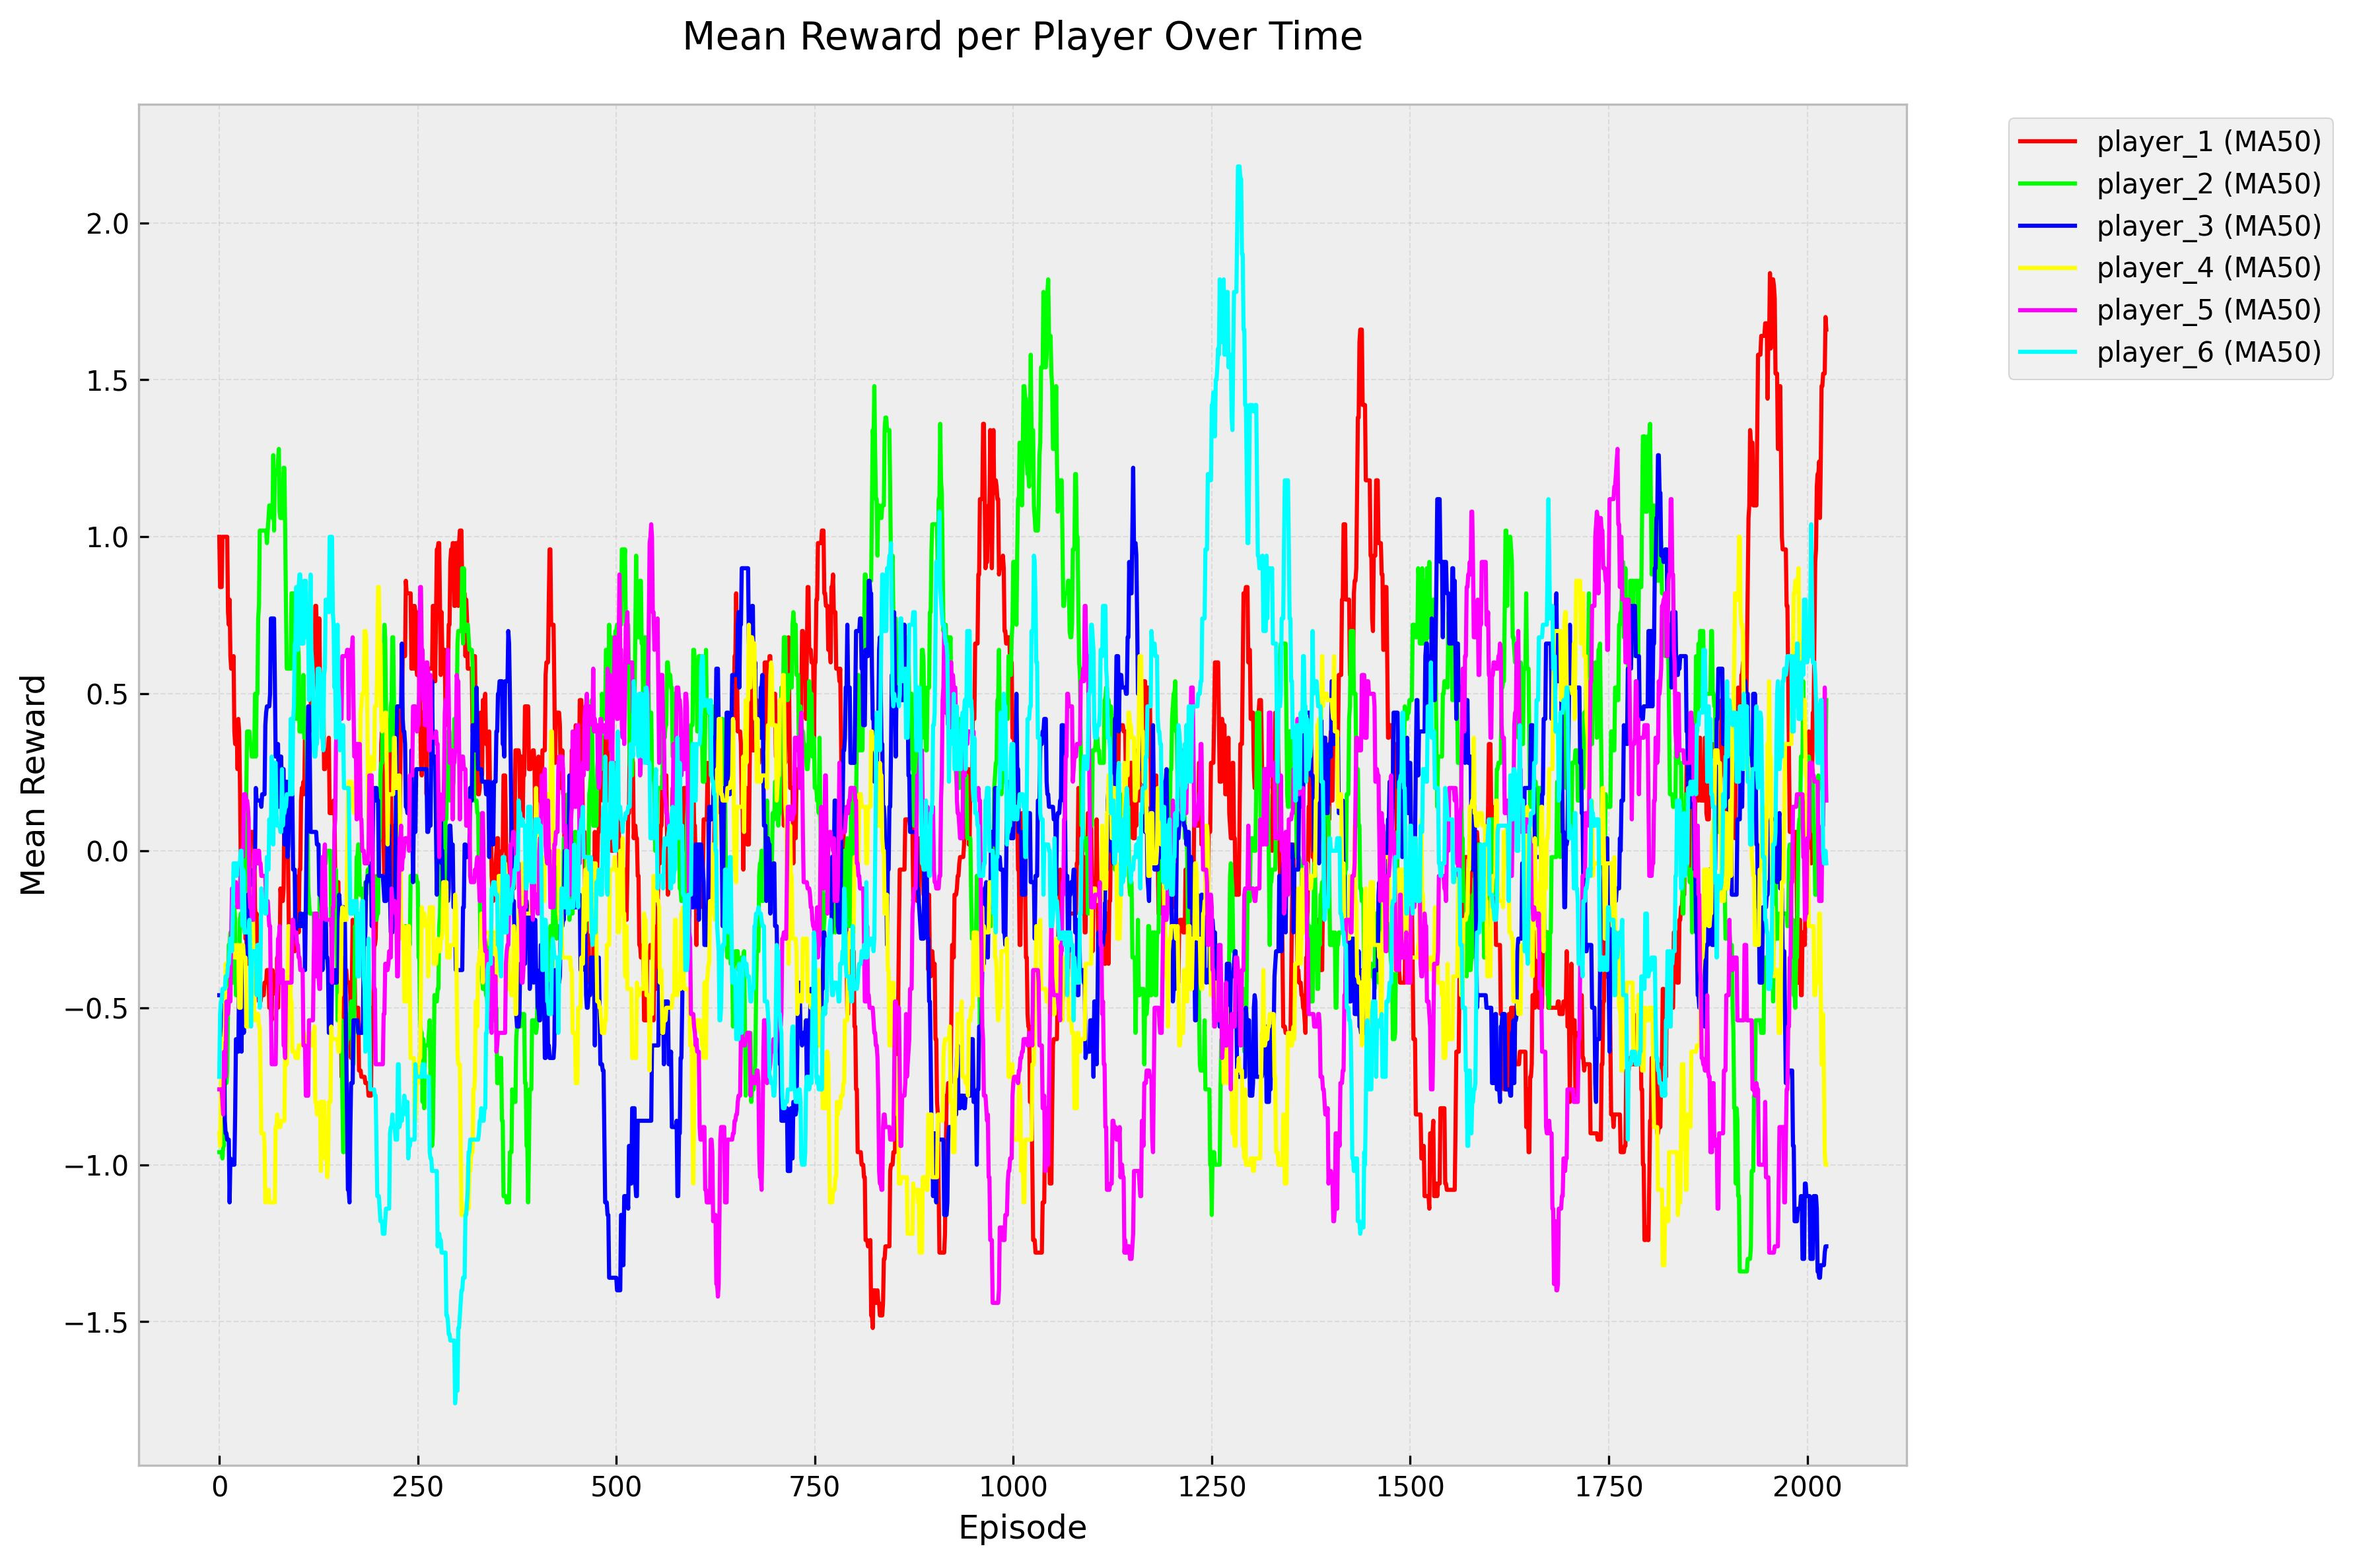
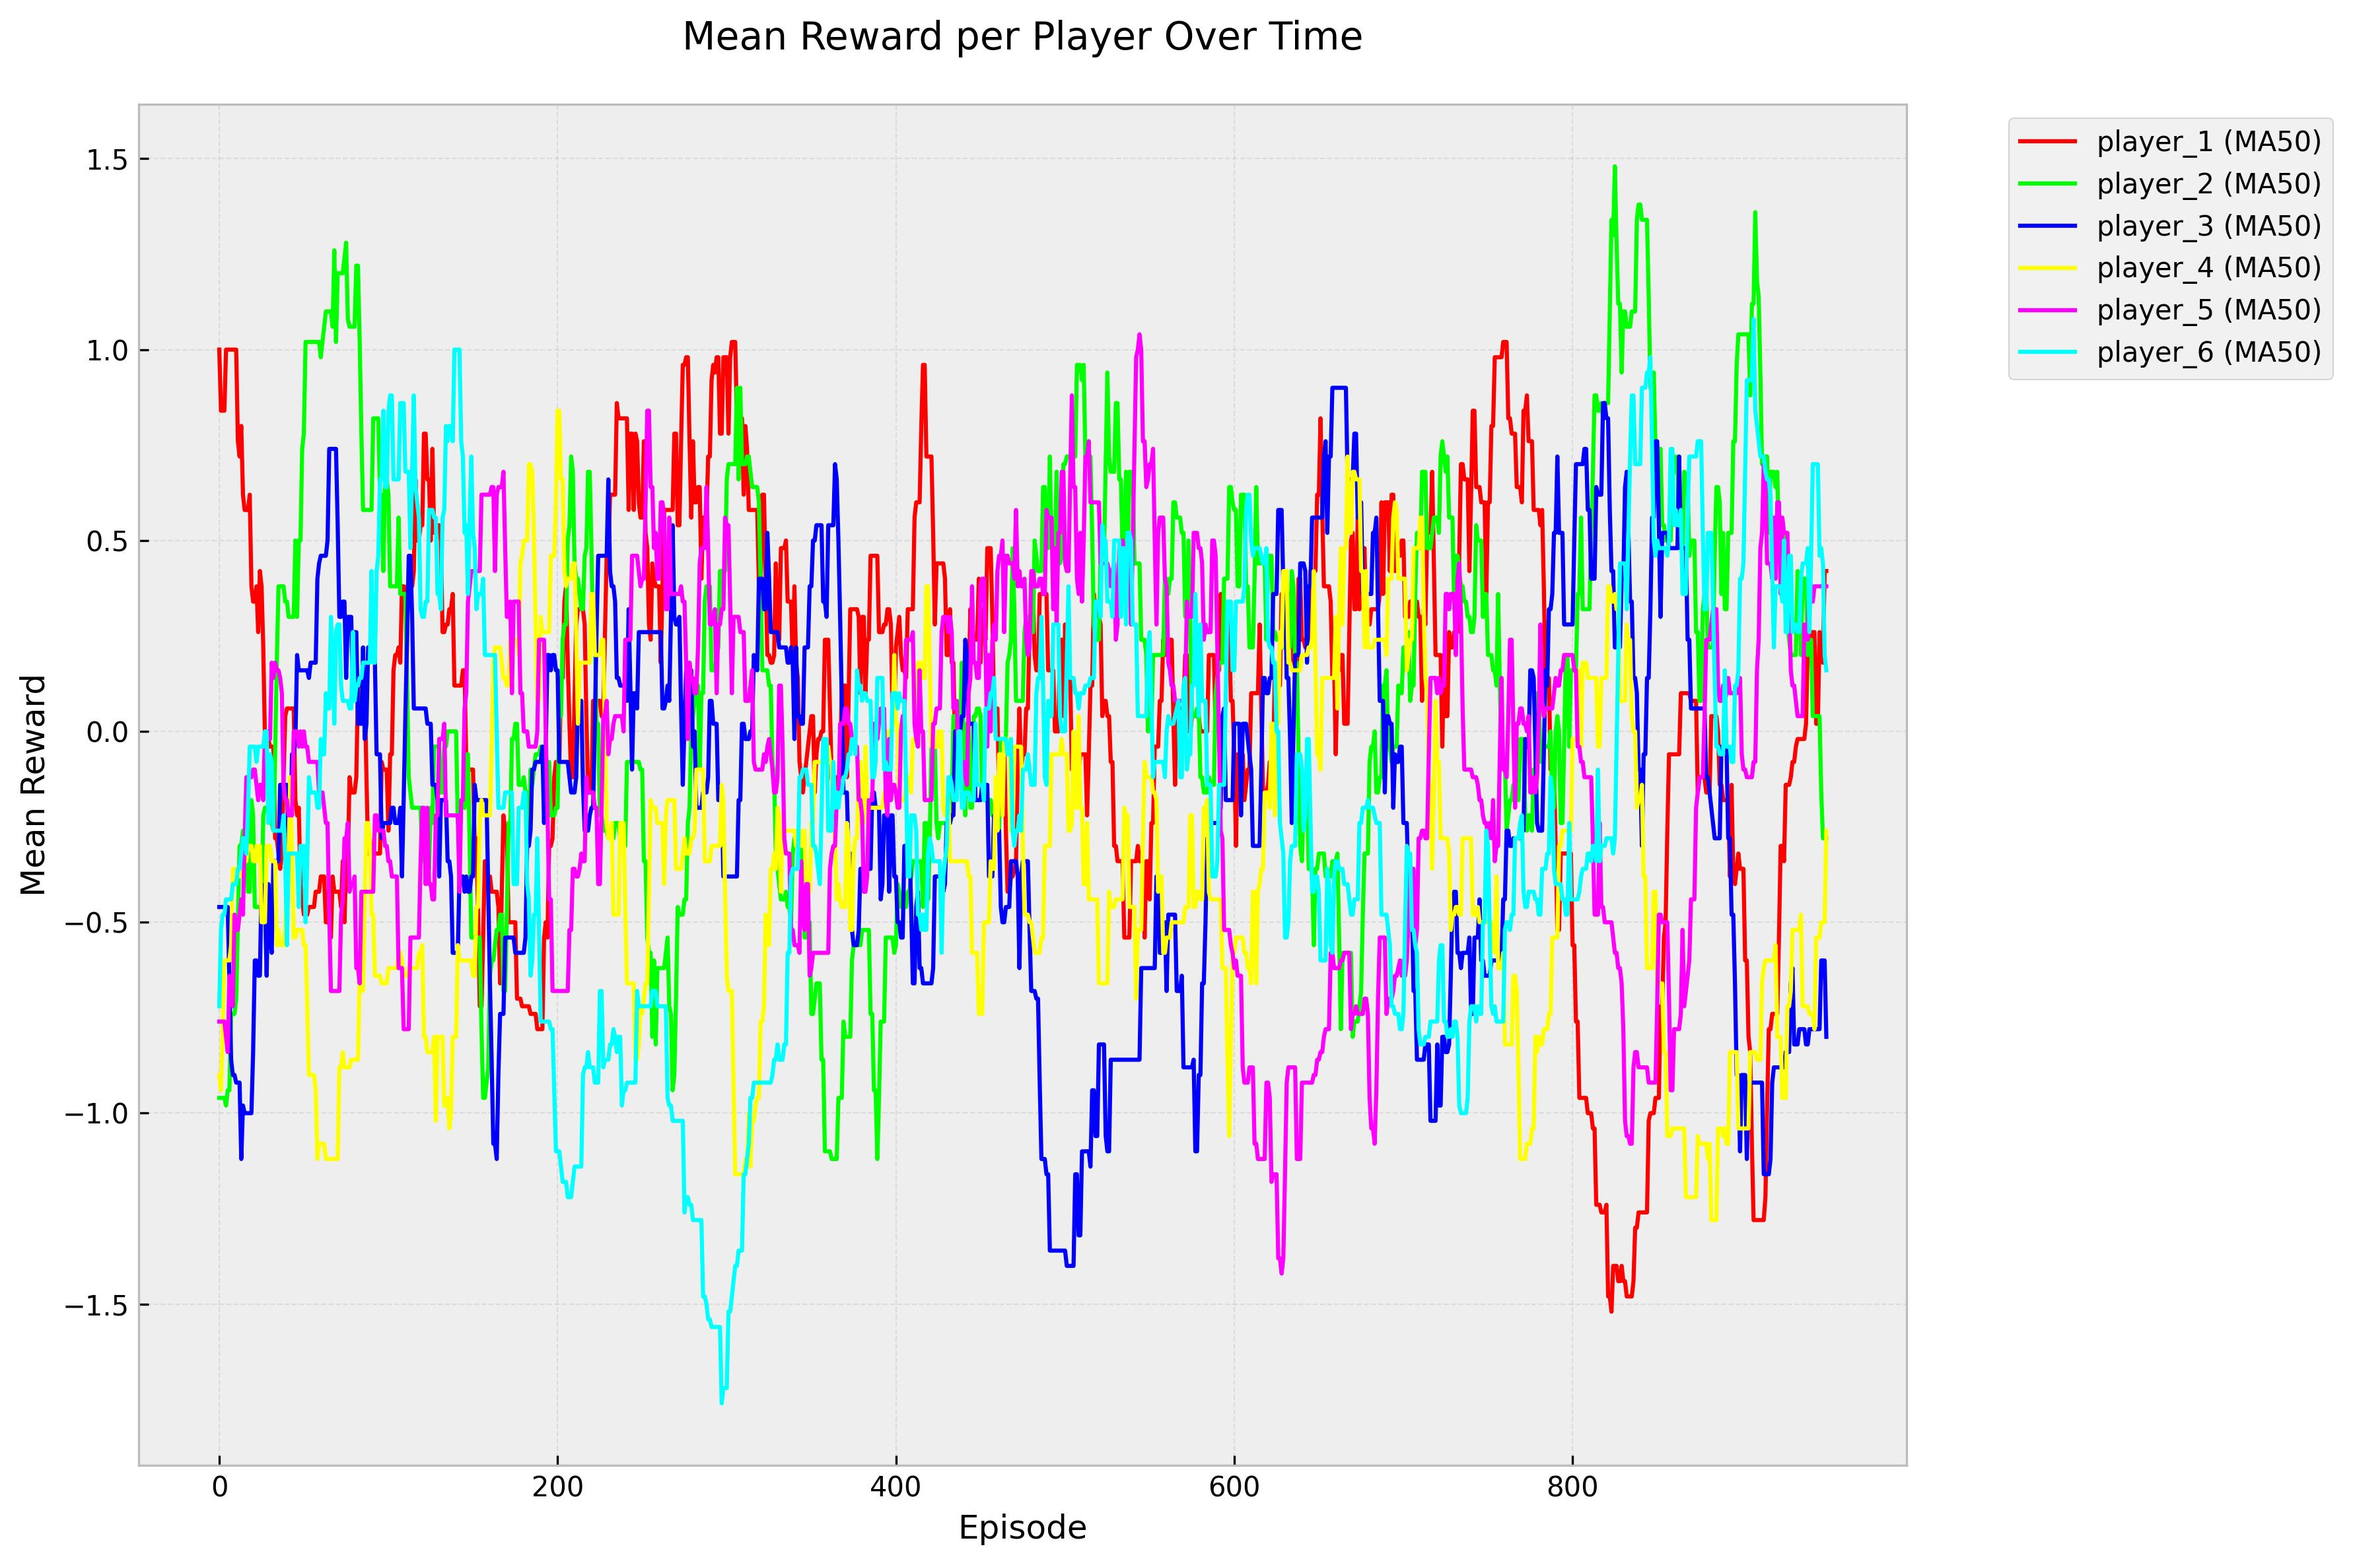
Switch from win tracking to reward-based training visualization
- Modify poker training script to calculate and track agent rewards per episode
- Update visualization functions to plot mean rewards instead of win rates
- Refactor reward calculation to consider stack changes and pot distribution
- Remove win-related visualization files and replace with reward-based plot
- Improve episode reward logging and tracking mechanism

diff --git a/poker_train.py b/poker_train.py
@@ -7,7 +7,7 @@ import time
 from poker_agents import PokerAgent
 from poker_game import PokerGame, GamePhase, PlayerAction
 import matplotlib.pyplot as plt
-from vizualization import plot_wins, update_wins_history
+from vizualization import plot_rewards, update_rewards_history
 
 # Hyperparameters
 EPISODES = 1000
@@ -32,91 +32,113 @@ def set_seed(seed=42):
 def run_episode(agent_list, epsilon, rendering, episode, render_every):
     env = PokerGame()
     env.reset()
+    done = False
+    reward_list = np.zeros(len(agent_list))
+    
+    # Store initial stacks for reward calculation
+    initial_stacks = [player.stack for player in env.players]
     
     # Continue until the hand is over
     while not env.current_phase == GamePhase.SHOWDOWN:
         current_player = env.players[env.current_player_idx]
         current_agent = agent_list[env.current_player_idx]
         
+        # Get state and valid actions
         state = env.get_state()
         valid_actions = [a for a in PlayerAction if env.action_buttons[a].enabled]
         
+        # Get action from agent with valid actions
         action = current_agent.get_action(state, epsilon, valid_actions)
+        
+        # Take action and get next state
         next_state, reward = env.step(action)
         
+        # Store experience
         current_agent.remember(state, action, reward, next_state, False)
         
+        # If all players have folded except one, end the episode
         active_players = sum(1 for p in env.players if p.is_active)
         if active_players == 1:
             break
             
+        # Render the game if rendering is enabled
         if rendering and (episode % render_every == 0):
+            # Handle pygame events
             for event in pygame.event.get():
                 if event.type == pygame.QUIT:
                     pygame.quit()
-                    return None
+                    return reward_list
             
+            # Draw the game state
             env._draw()
             pygame.display.flip()
-            env.clock.tick(30)
+            
+            # Control frame rate
+            env.clock.tick(30)  # 30 FPS
     
-    # Get winner name
-    active_players = [p for p in env.players if p.is_active]
-    if len(active_players) == 1:
-        winner_name = active_players[0].name
+    # Calculate final rewards based on stack changes
+    active_players_count = sum(1 for p in env.players if p.is_active)
+    if active_players_count > 0:
+        pot_per_winner = env.pot / active_players_count
     else:
-        # Evaluate hands and find winner
-        player_hands = [(player, env.evaluate_hand(player)) for player in active_players]
-        player_hands.sort(key=lambda x: (x[1][0].value, x[1][1]), reverse=True)
-        winner_name = player_hands[0][0].name
+        pot_per_winner = 0
+        
+    for i, player in enumerate(env.players):
+        if player.is_active:
+            # Reward = final stack - initial stack + share of pot if active
+            reward_list[i] = (player.stack + pot_per_winner) - initial_stacks[i]
+        else:
+            # For folded players, reward = final stack - initial stack
+            reward_list[i] = player.stack - initial_stacks[i]
     
     # Train all agents
     for agent in agent_list:
         agent.train_model()
         
+    # If rendering, show the final state briefly
     if rendering and (episode % render_every == 0):
         env._draw()
         pygame.display.flip()
-        pygame.time.wait(1000)
+        pygame.time.wait(1000)  # Wait 1 second to show final state
 
-    return winner_name
+    return reward_list
 
 # Main Training Loop
 def main_training_loop(agent_list, episodes, rendering, render_every = 10):
-    # Initialize wins history
-    wins_history = {}
+    # Initialize rewards history
+    rewards_history = {}
     
     try:
         for episode in range(episodes):
             epsilon = np.clip(0.5 * EPS_DECAY ** episode, 0.01, 0.5)
             
-            winner_name = run_episode(agent_list, epsilon, rendering, episode, render_every)
-            if winner_name is None:  # Game was quit
-                break
-                
-            # Update wins history
-            wins_history = update_wins_history(wins_history, winner_name, agent_list)
+            reward_list = run_episode(agent_list, epsilon, rendering, episode, render_every)
+            
+            # Update rewards history
+            rewards_history = update_rewards_history(rewards_history, reward_list, agent_list)
             
             # Print episode information
             print(f"\nEpisode {episode + 1}/{episodes}")
             print(f"Epsilon: {epsilon:.3f}")
-            print(f"Winner: {winner_name}")
+            for i, reward in enumerate(reward_list):
+                print(f"Agent {i+1} reward: {reward:.2f}")
 
-            # Save models and plot every 50 episodes
+            # Save the trained models every 50 episodes
             if episode == EPISODES - 1:
                 print("\nSaving models...")
                 for agent in agent_list:
                     torch.save(agent.model.state_dict(), f"saved_models/poker_agent_{agent.name}_epoch_{episode+1}.pth")
                 print("Models saved successfully!")
                 
-                # Plot and save wins visualization
-                plot_wins(wins_history, window_size=50, save_path="viz_pdf/poker_wins.jpg")
-                print("Wins plot saved successfully!")
+                # Plot and save rewards visualization
+                plot_rewards(rewards_history, window_size=50, save_path="viz_pdf/poker_rewards.jpg")
+                print("Rewards plot saved successfully!")
 
     except KeyboardInterrupt:
         print("\nTraining interrupted by user")
-        plot_wins(wins_history, window_size=50, save_path="viz_pdf/poker_wins.jpg")
-        print("Wins plot saved successfully!")
+        # Plot rewards even if training was interrupted
+        plot_rewards(rewards_history, window_size=50, save_path="viz_pdf/poker_rewards.jpg")
+        print("Rewards plot saved successfully!")
     finally:
         if rendering:
             pygame.quit()

diff --git a/vizualization.py b/vizualization.py
@@ -4,12 +4,12 @@ from typing import List, Dict
 import seaborn as sns
 import os
 
-def plot_wins(wins_history: Dict[str, List[int]], window_size: int = 50, save_path: str = "viz_pdf/poker_wins.jpg"):
+def plot_rewards(rewards_history: Dict[str, List[float]], window_size: int = 50, save_path: str = "viz_rewards.jpg"):
     """
-    Plot the win rate curves for each player with a moving average.
+    Plot the mean reward curves for each player with a moving average.
     
     Args:
-        wins_history (Dict[str, List[int]]): Dictionary mapping player names to their win histories (1 for win, 0 for loss)
+        rewards_history (Dict[str, List[float]]): Dictionary mapping player names to their reward histories
         window_size (int): Size of the moving average window
         save_path (str): Path where to save the JPEG plot
     """
@@ -17,72 +17,84 @@ def plot_wins(wins_history: Dict[str, List[int]], window_size: int = 50, save_pa
         # Create directory if it doesn't exist
         os.makedirs(os.path.dirname(save_path) if os.path.dirname(save_path) else '.', exist_ok=True)
         
+        # Clear any existing plots
         plt.clf()
         plt.close('all')
         
+        # Create new figure with high DPI
         plt.figure(figsize=(12, 8), dpi=300)
+        
+        # Set style - using a built-in style instead of seaborn
         plt.style.use('bmh')
         
+        # Set color palette manually
         colors = ['#FF0000', '#00FF00', '#0000FF', '#FFFF00', '#FF00FF', '#00FFFF']
         
-        for i, (player_name, wins) in enumerate(wins_history.items()):
-            if len(wins) < window_size:
-                print(f"Warning: Not enough data points for {player_name} to calculate win rate")
+        # Plot for each player
+        for i, (player_name, rewards) in enumerate(rewards_history.items()):
+            if len(rewards) < window_size:
+                print(f"Warning: Not enough data points for {player_name} to calculate moving average")
                 continue
                 
-            # Calculate win rate (moving average)
-            win_rate = np.convolve(wins, np.ones(window_size)/window_size, mode='valid')
-            episodes = range(len(win_rate))
+            # Calculate moving average
+            moving_avg = np.convolve(rewards, np.ones(window_size)/window_size, mode='valid')
+            episodes = range(len(moving_avg))
             
-            plt.plot(episodes, win_rate, 
-                    label=f'{player_name} Win Rate (MA{window_size})',
+            # Plot the moving average with cycling colors
+            plt.plot(episodes, moving_avg, 
+                    label=f'{player_name} (MA{window_size})',
                     color=colors[i % len(colors)],
                     linewidth=1.5)
         
-        plt.title('Win Rate per Player Over Time', fontsize=14, pad=20)
+        # Customize plot
+        plt.title('Mean Reward per Player Over Time', fontsize=14, pad=20)
         plt.xlabel('Episode', fontsize=12)
-        plt.ylabel('Win Rate', fontsize=12)
+        plt.ylabel('Mean Reward', fontsize=12)
         plt.legend(bbox_to_anchor=(1.05, 1), loc='upper left')
         plt.grid(True, alpha=0.3)
         
+        # Adjust layout to prevent label cutoff
         plt.tight_layout()
         
+        # Save plot as JPEG with high quality
         plt.savefig(save_path, 
                    format='jpg',
                    bbox_inches='tight',
                    dpi=300,
                    pad_inches=0.1)
         
+        # Close all figures to free memory
         plt.close('all')
         
-        print(f"Successfully saved win rate plot to {save_path}")
+        print(f"Successfully saved plot to {save_path}")
         
     except Exception as e:
         print(f"Error while creating plot: {str(e)}")
+        # Clean up in case of error
         plt.close('all')
 
-def update_wins_history(wins_history: Dict[str, List[int]], 
-                       winner_name: str,
-                       agent_list: List) -> Dict[str, List[int]]:
+def update_rewards_history(rewards_history: Dict[str, List[float]], 
+                         episode_rewards: List[float], 
+                         agent_list: List) -> Dict[str, List[float]]:
     """
-    Update the wins history dictionary with new episode winner.
+    Update the rewards history dictionary with new episode rewards.
     
     Args:
-        wins_history (Dict[str, List[int]]): Current wins history
-        winner_name (str): Name of the winning player
+        rewards_history (Dict[str, List[float]]): Current rewards history
+        episode_rewards (List[float]): Rewards from the current episode
         agent_list (List): List of agents
         
     Returns:
-        Dict[str, List[int]]: Updated wins history
+        Dict[str, List[float]]: Updated rewards history
     """
     try:
-        for agent in agent_list:
-            if agent.name not in wins_history:
-                wins_history[agent.name] = []
-            # Add 1 for win, 0 for loss
-            wins_history[agent.name].append(1 if agent.name == winner_name else 0)
+        for i, reward in enumerate(episode_rewards):
+            player_name = agent_list[i].name
+            if player_name not in rewards_history:
+                rewards_history[player_name] = []
+            rewards_history[player_name].append(reward)
         
-        return wins_history
+        return rewards_history
     except Exception as e:
-        print(f"Error while updating wins history: {str(e)}")
-        return wins_history
+        print(f"Error while updating rewards history: {str(e)}")
+        return rewards_history
